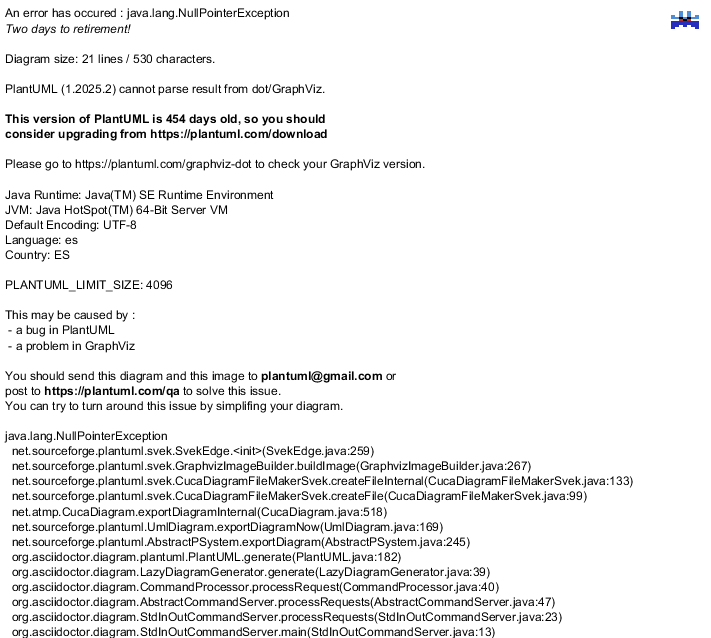
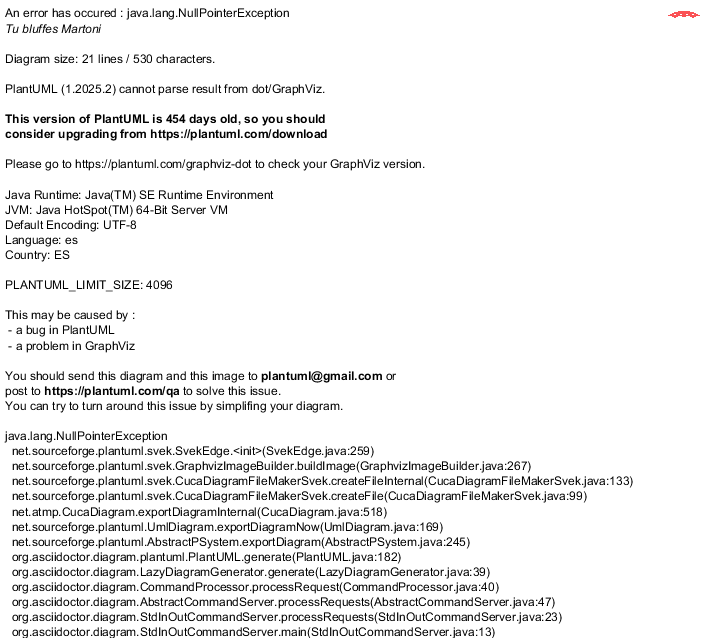
Updates

diff --git a/index.html b/index.html
@@ -1103,7 +1103,7 @@ La estrategia general se basa en los siguientes aspectos:</p>
 </div>
 <div class="imageblock">
 <div class="content">
-<img src="./images/building-block-overview.png" alt="building block overview" width="688" height="638">
+<img src="./images/building-block-overview.png" alt="building block overview" width="711" height="638">
 </div>
 </div>
 <div class="dlist">
@@ -1548,7 +1548,7 @@ cy(row)      = row · rowStep</code></pre>
 <h3 id="_infrastructure_level_1">7.1. Infrastructure Level 1</h3>
 <div class="imageblock">
 <div class="content">
-<img src="./images/deployment-overview.png" alt="deployment overview" width="678" height="638">
+<img src="./images/deployment-overview.png" alt="deployment overview" width="698" height="638">
 </div>
 </div>
 <div class="dlist">
@@ -1647,7 +1647,7 @@ Esto simplifica la configuración de firewall, evita problemas de CORS y habilit
 <h3 id="_infrastructure_level_2_nginx_como_proxy">7.2. Infrastructure Level 2 — Nginx como proxy</h3>
 <div class="imageblock">
 <div class="content">
-<img src="./images/Nginx%20Routing.png" alt="Nginx Routing" width="711" height="638">
+<img src="./images/Nginx%20Routing.png" alt="Nginx Routing" width="703" height="638">
 </div>
 </div>
 <div class="paragraph">
